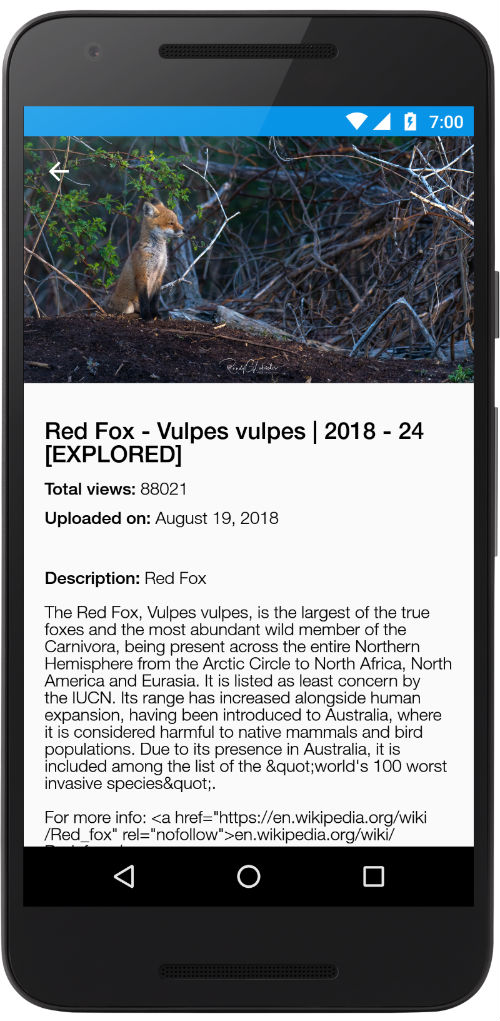
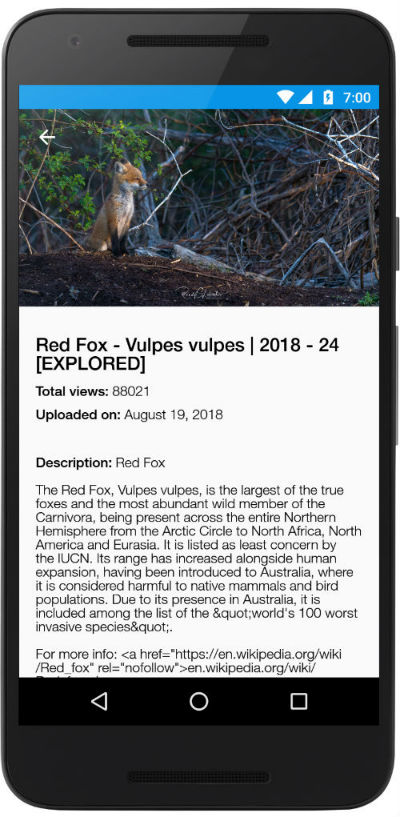
Update readme

Changed region(s): [[0.63, 0.612, 0.69, 0.6426], [0.75, 0.612, 0.78, 0.6426], [0.42, 0.6426, 0.45, 0.6732]]

diff --git a/README.md b/README.md
@@ -17,7 +17,7 @@ Screenshots
 -----------
 
 <img src="/art/01.jpg">
-<img src="/art/02.jpg" hspace="70">
+<img src="/art/02.jpg">
 
 Can I haz?
 ----------
